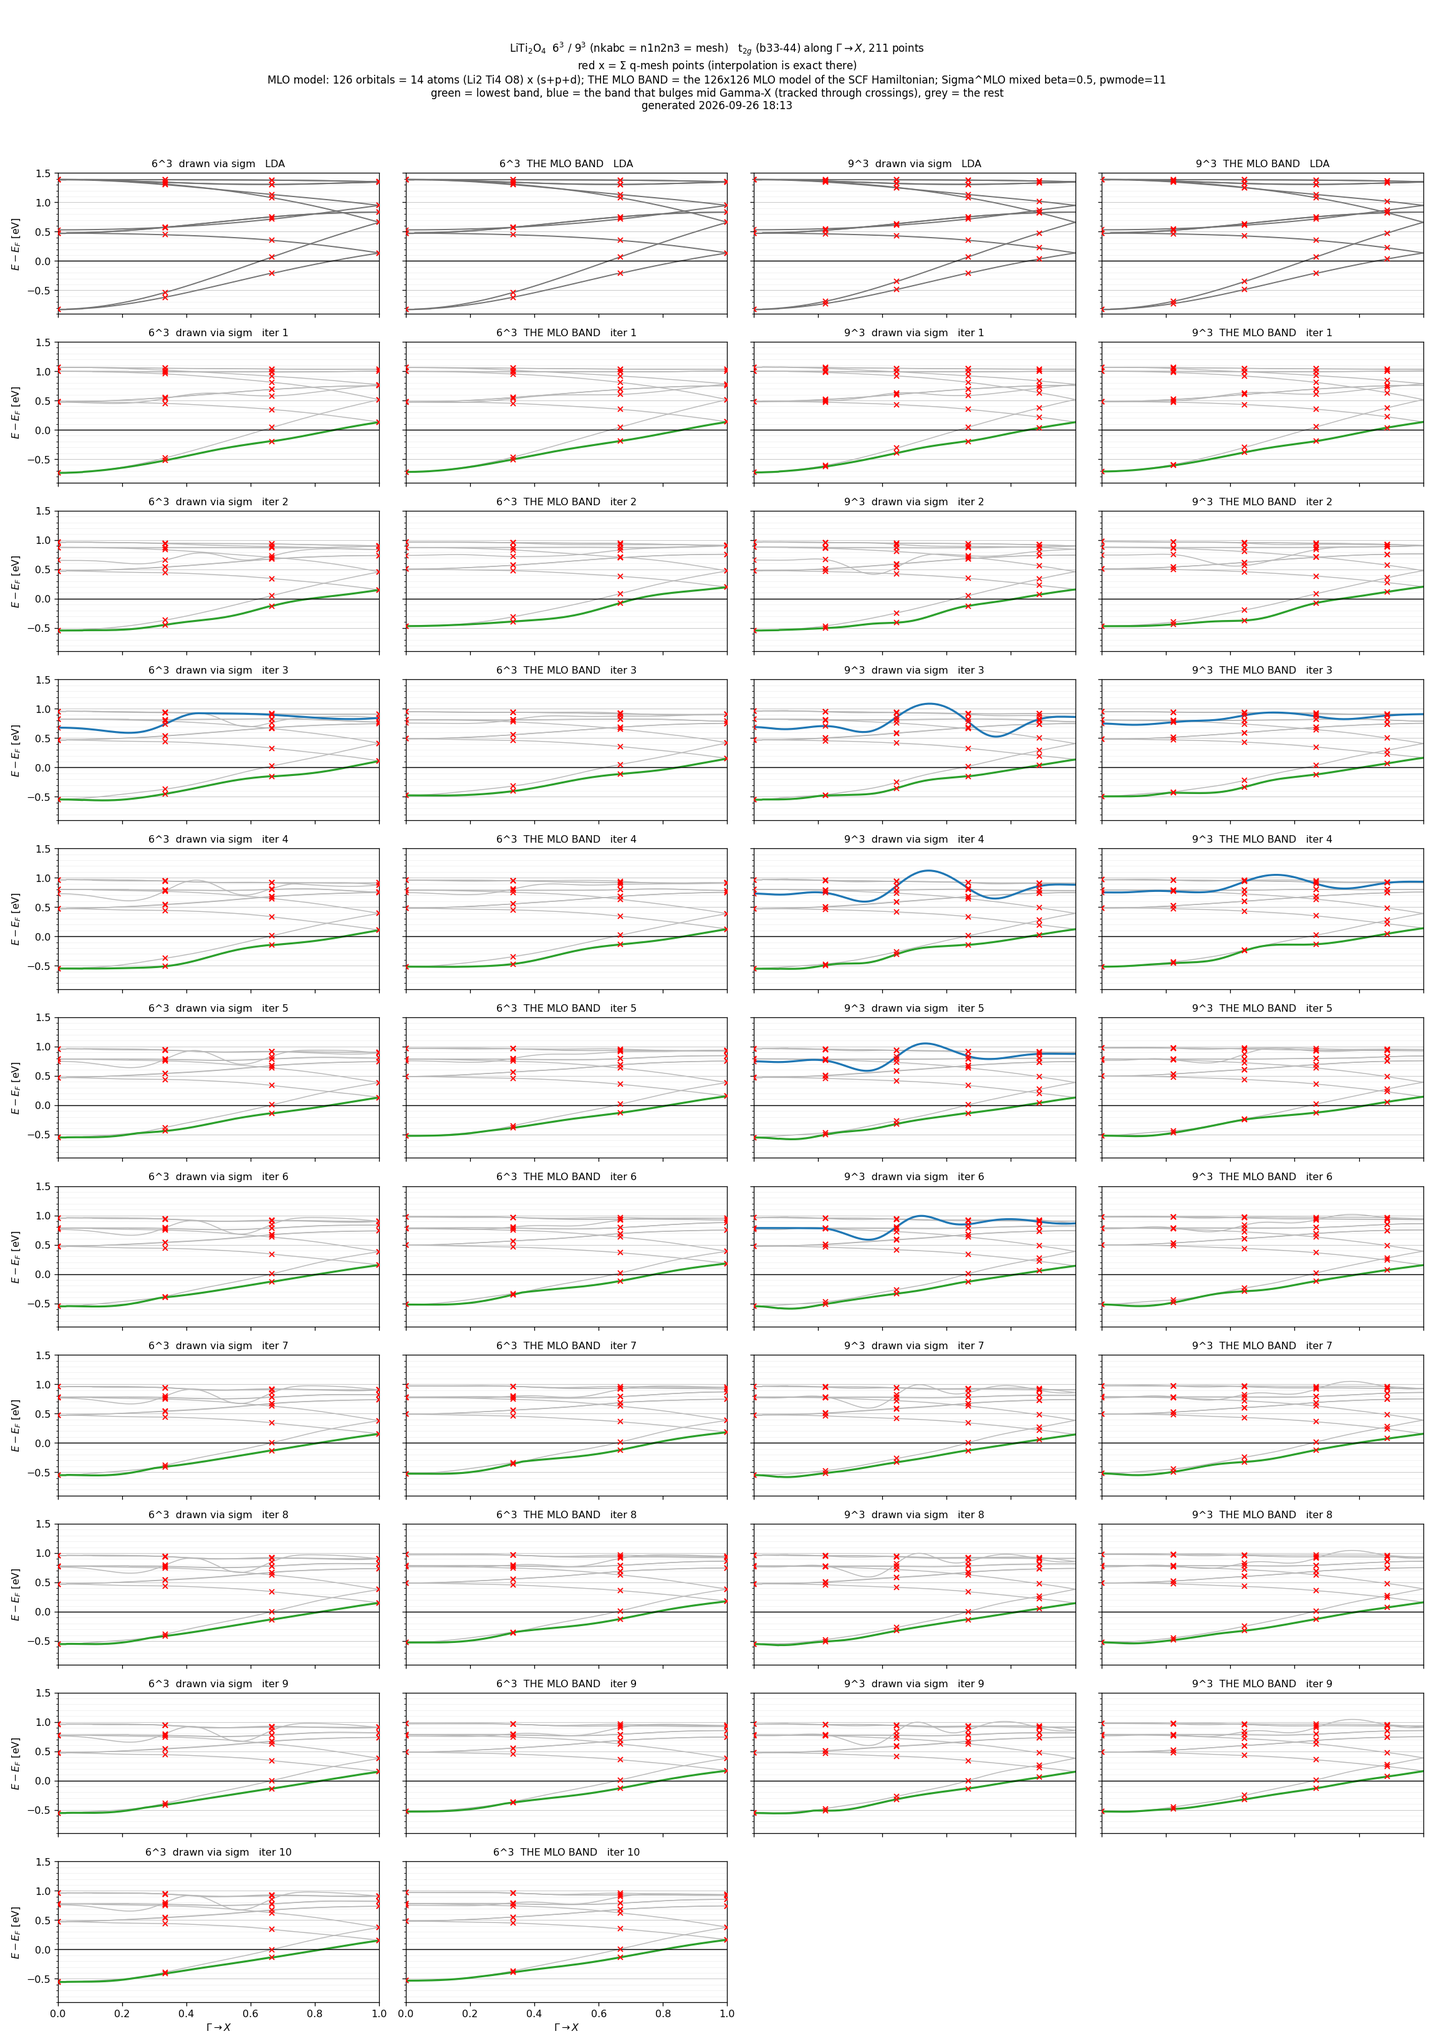
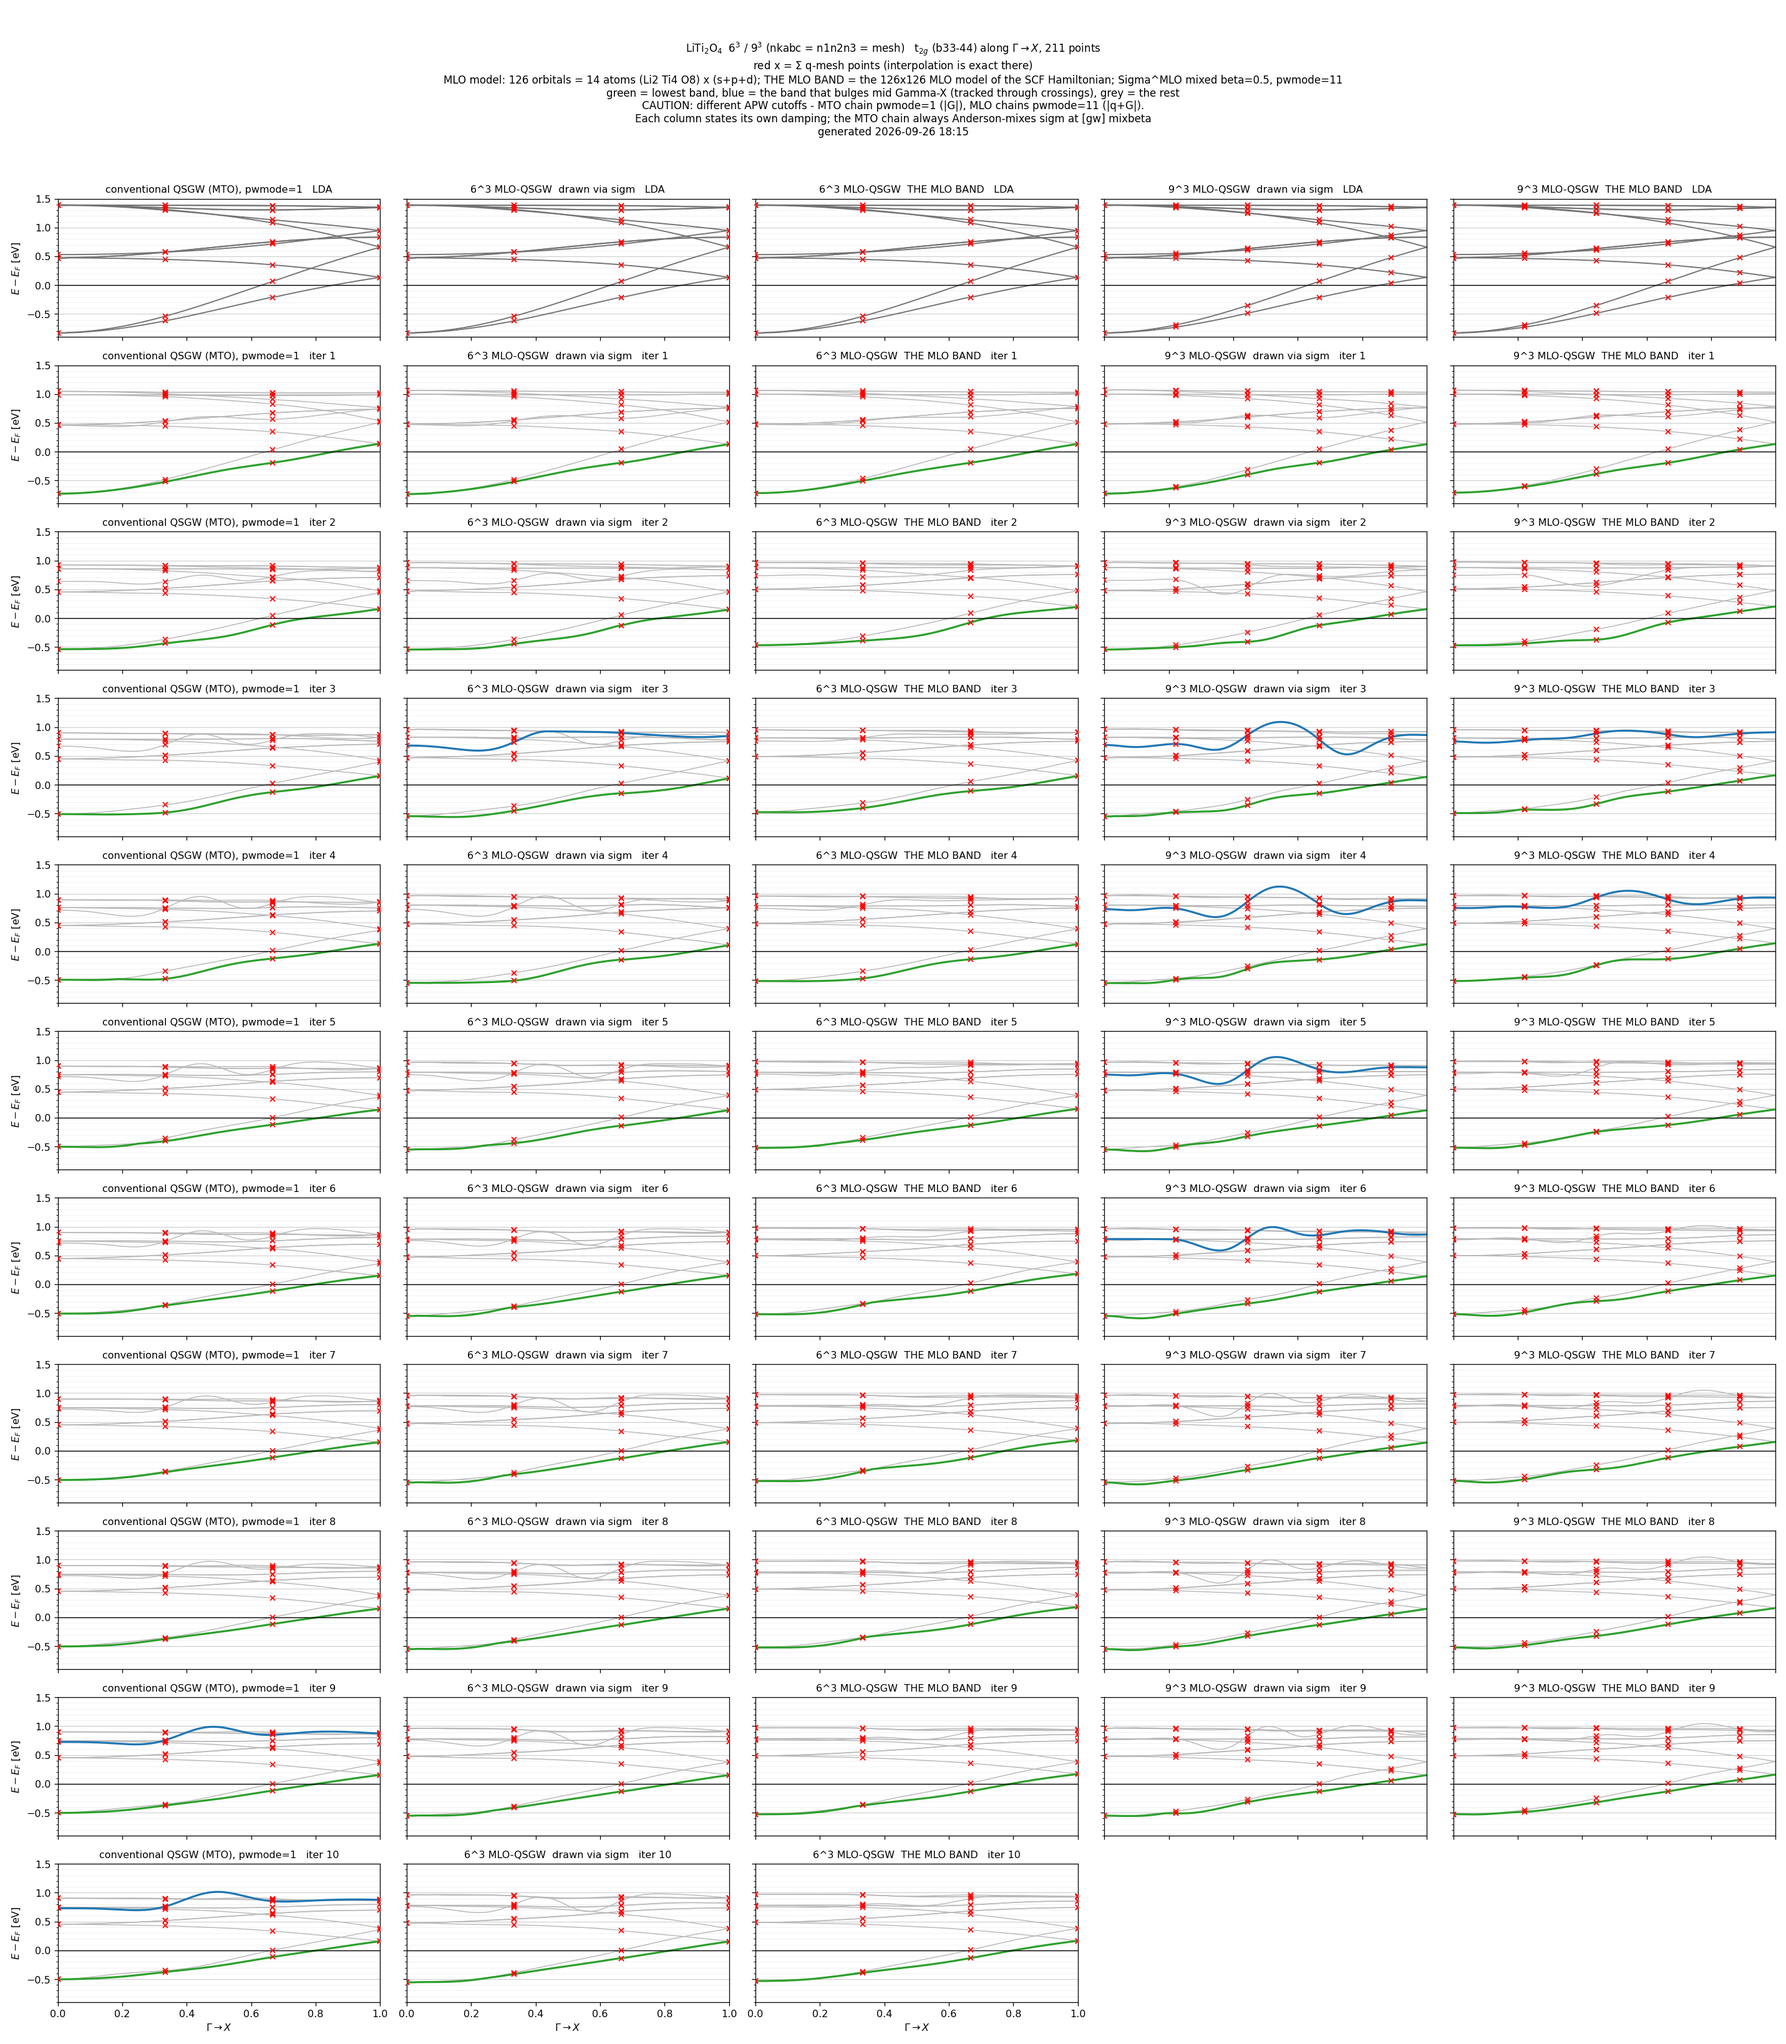
kBT_research: bring the conventional 6^3 chain back as a fifth column
L-1 and L-3 now show the conventional QSGW chain (n666_nk6_from_lda, pwmode=1) on the
left of the four MLO-QSGW columns.  In the conventional chain the band that bulges mid
Gamma-X appears at iterations 9-10; in the 6^3 MLO-QSGW chain it does not.

Changed region(s): [[0.0, 0.0311, 1.0, 0.996]]

diff --git a/Samples/kBT/kBT_research.md b/Samples/kBT/kBT_research.md
@@ -20,19 +20,20 @@
 
 | 列 | 何を描いたか | 描き方 |
 |---|---|---|
-| 1 | 6³ の `liti_mlo_v9`（10 反復で完了）| 従来 `sigm` の内挿（`job_band`、`mloON=0`）|
-| 2 | 6³ の `liti_mlo_v9` の **MLO バンド** | SCF が解いた $H$ の MLO 模型（`draw_mloband.sh`）|
-| 3 | **9³ の `liti_mlo_k9`**（走行中）| 従来 `sigm` の内挿。SCF が使った $\Sigma^{\rm MLO}$ ではない |
-| 4 | **9³ の `liti_mlo_k9` の MLO バンド** | SCF が解いた $H$ の MLO 模型 |
+| 1 | **従来 QSGW**（MTO、6³、`n666_nk6_from_lda`、`pwmode=1`、β=0.5）| 従来 `sigm` の内挿。LDA 行だけ `pwmode=11`（02:45 のエントリ）|
+| 2 | 6³ の `liti_mlo_v9`（MLO-QSGW、10 反復で完了）| 従来 `sigm` の内挿（`job_band`、`mloON=0`）|
+| 3 | 6³ の `liti_mlo_v9` の **MLO バンド** | SCF が解いた $H$ の MLO 模型（`draw_mloband.sh`）|
+| 4 | **9³ の `liti_mlo_k9`**（MLO-QSGW、走行中）| 従来 `sigm` の内挿。SCF が使った $\Sigma^{\rm MLO}$ ではない |
+| 5 | **9³ の `liti_mlo_k9` の MLO バンド** | SCF が解いた $H$ の MLO 模型 |
 
-9³ には反復を揃えて比べられる従来チェーンが無いので、従来列は置いていない。
+9³ には反復を揃えて比べられる従来チェーンが無いので、従来列は 6³ だけ。
 **赤い ×** は列ごとの Γ→X 上の Σ メッシュ点 $x = 2n/N$ での各バンドの値（6³: 0, 1/3, 2/3, 1、9³: 0, 2/9, 4/9, 6/9, 8/9。X 点は奇数メッシュに乗らない。9³ の点は 211 点の格子に乗らないので前後から内挿）。図の題に MLO 模型の内容（126 軌道 = 14 原子 × (s+p+d)）を書いてある。
 
 *図 L-1* t2g（b33–44）、Γ→X 211 点
 
 [![mlo_rows_k9](LiTi2O4/mlo_rows_k9.png)](LiTi2O4/mlo_rows_k9.png)
 
-`Samples/kBT/LiTi2O4/mlo_rows_k9.png`（生成: `MESH=6,9 MESHCOLS=6,6,9,9 mlo_rows.py <root> <out> v9,v9mlo,k9,k9mlo '…' '…' noref`）
+`Samples/kBT/LiTi2O4/mlo_rows_k9.png`（生成: `MESH=6,9 MESHCOLS=6,6,6,9,9 mlo_rows.py <root> <out> v9,v9mlo,k9,k9mlo '…' '…'`、root の `ref/` が従来列）
 
 *図 L-2* 反復ごとの変化（左 max、右 rms）。**9³ は実線、6³ は破線**
 
@@ -40,12 +41,12 @@
 
 `Samples/kBT/LiTi2O4/mlo_conv_k9.png`
 
-*図 L-3* **6³（v9、iteration 10 まで）と 9³ を並べたもの**。列は左から 6³ `sigm` 描画 / 6³ MLO バンド / 9³ `sigm` 描画 / 9³ MLO バンド。
+*図 L-3* **従来 QSGW（6³）、6³ と 9³ の MLO-QSGW を並べたもの**。列は L-1 と同じ 5 列（従来 / 6³ `sigm` 描画 / 6³ MLO バンド / 9³ `sigm` 描画 / 9³ MLO バンド）。
 **緑 = 一番下のバンド、青 = Γ→X の中央で膨れるバンド**（交差をまたいで追跡、膨らみが 50 meV 未満の段では青を付けない）、灰 = その他、**赤い × = メッシュ点**。（18:15 まで一番下は赤で描いていた。赤をメッシュ点の × に使うため緑に変えた）
 
 [![mlo_rows_6vs9_hilite](LiTi2O4/mlo_rows_6vs9_hilite.png)](LiTi2O4/mlo_rows_6vs9_hilite.png)
 
-`Samples/kBT/LiTi2O4/mlo_rows_6vs9_hilite.png`（生成: `HILITE=1 MESH=6,9 MESHCOLS=6,6,9,9 mlo_rows.py <root> <out> v9,v9mlo,k9,k9mlo '…' '…' noref`）。
+`Samples/kBT/LiTi2O4/mlo_rows_6vs9_hilite.png`（生成: `HILITE=1 MESH=6,9 MESHCOLS=6,6,6,9,9 mlo_rows.py <root> <out> v9,v9mlo,k9,k9mlo '…' '…'`）。従来列では iteration 9–10 で青（中央の膨れ）が出るが、同じ 6³ の MLO-QSGW の 2 列には出ない。
 9³ だけの色分け版は `mlo_rows_k9_hilite.png`
 
 *表 L-1* 9³ の各反復
